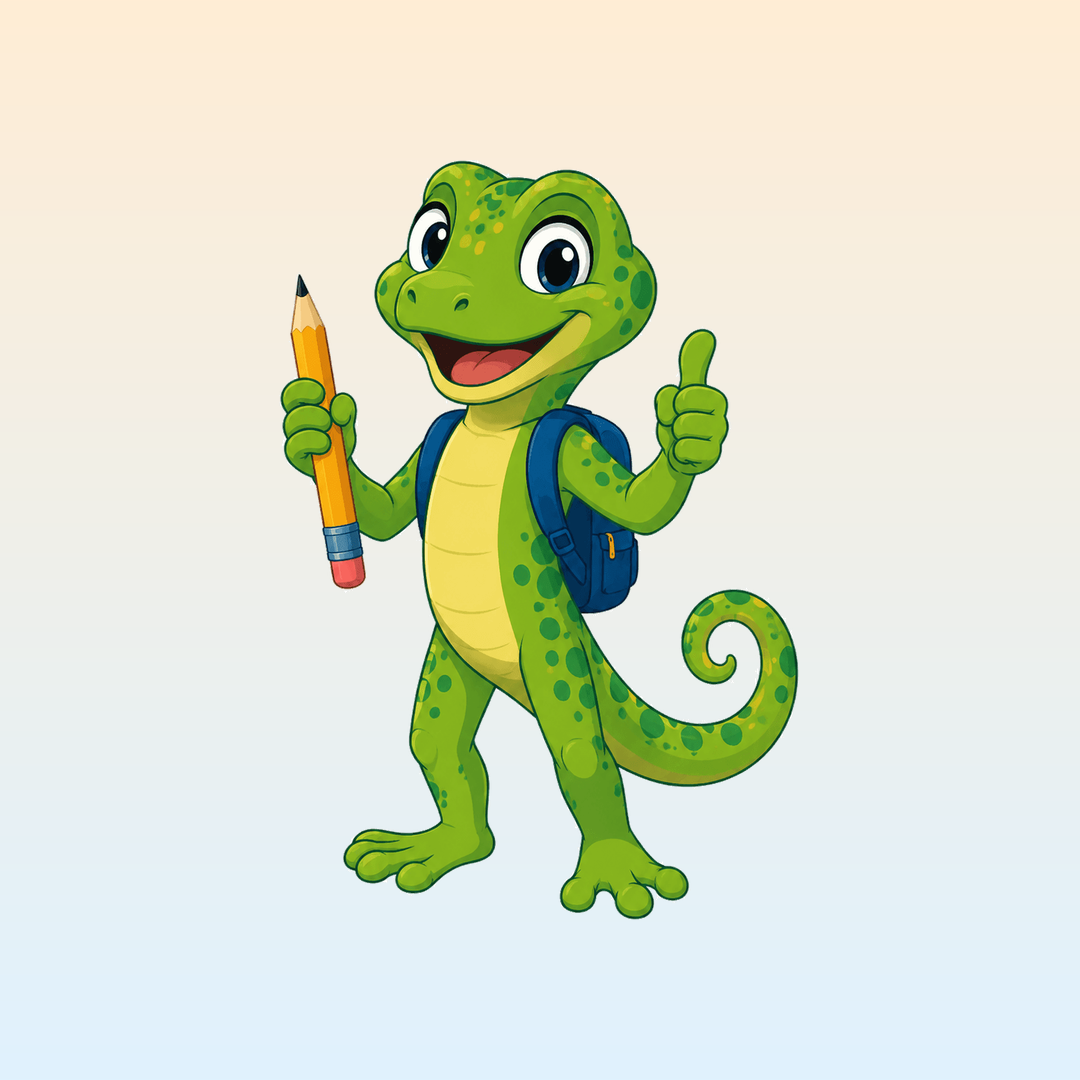
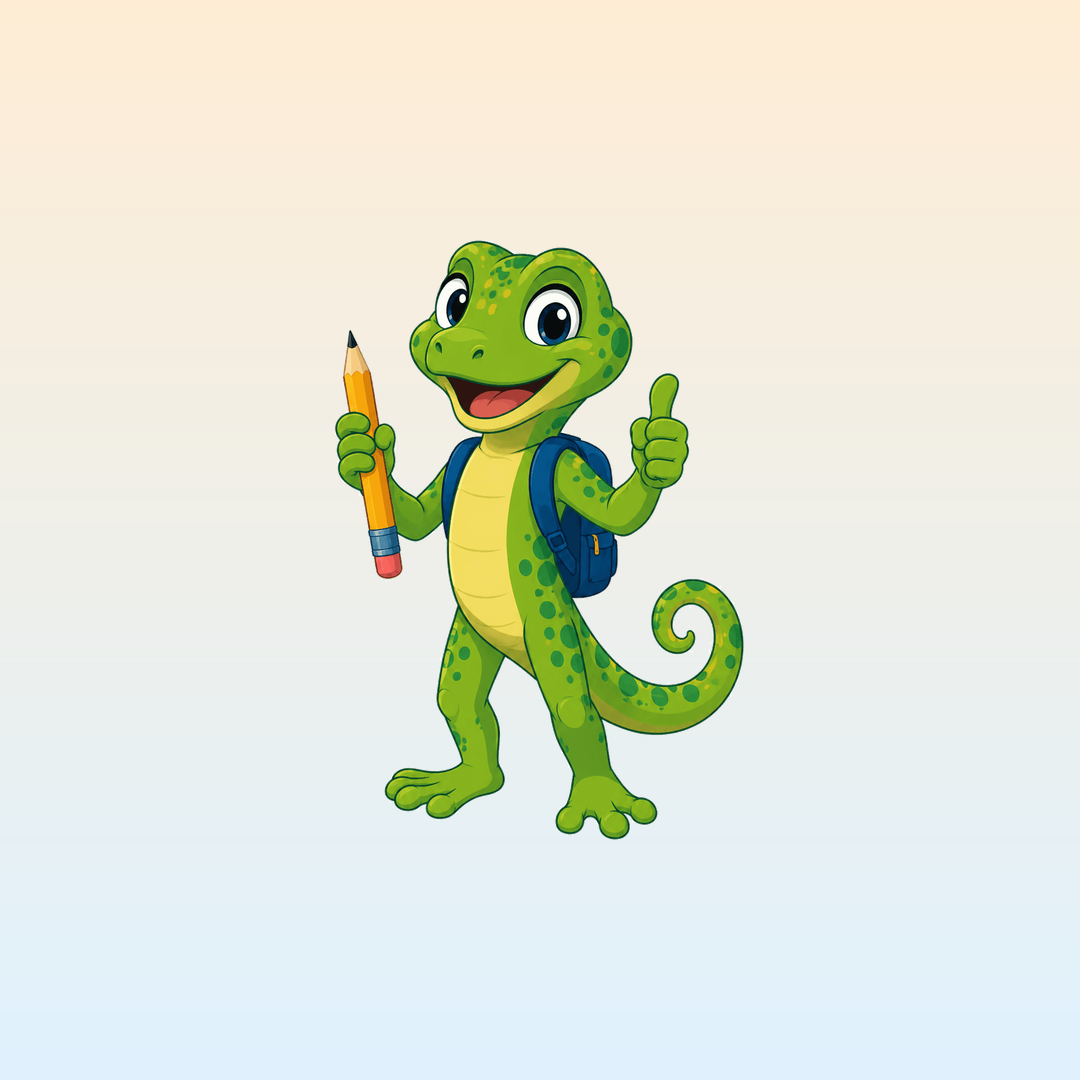
Photo de profil Ti Margo : plus petite (600 px) pour tenir dans le recadrage d'Instagram

Changed region(s): [[0.2444, 0.1528, 0.7639, 0.8556]]

diff --git a/scripts/pub-photo-profil.py b/scripts/pub-photo-profil.py
@@ -42,7 +42,10 @@ def ti_margo():
     im = degrade().convert("RGBA")
     tm = Image.open(RACINE / "public" / "cahier-vacances" / "ti-margo.png").convert("RGBA")
     tm = tm.crop(tm.getbbox())  # l'image a des marges transparentes : on les rogne
-    h = 760  # le rond coupe les coins : on reste dans le cercle inscrit
+    # 19/10 : à 760 px, Frédéric : « elle est trop haute » au téléchargement —
+    # Instagram recadre plus serré que le rond inscrit. 600 px laisse de la marge
+    # tout autour (crayon, pieds, queue compris).
+    h = 600
     tm = tm.resize((int(tm.width * h / tm.height), h), Image.LANCZOS)
     im.paste(tm, ((T - tm.width) // 2, (T - h) // 2), tm)
     return im.convert("RGB")
